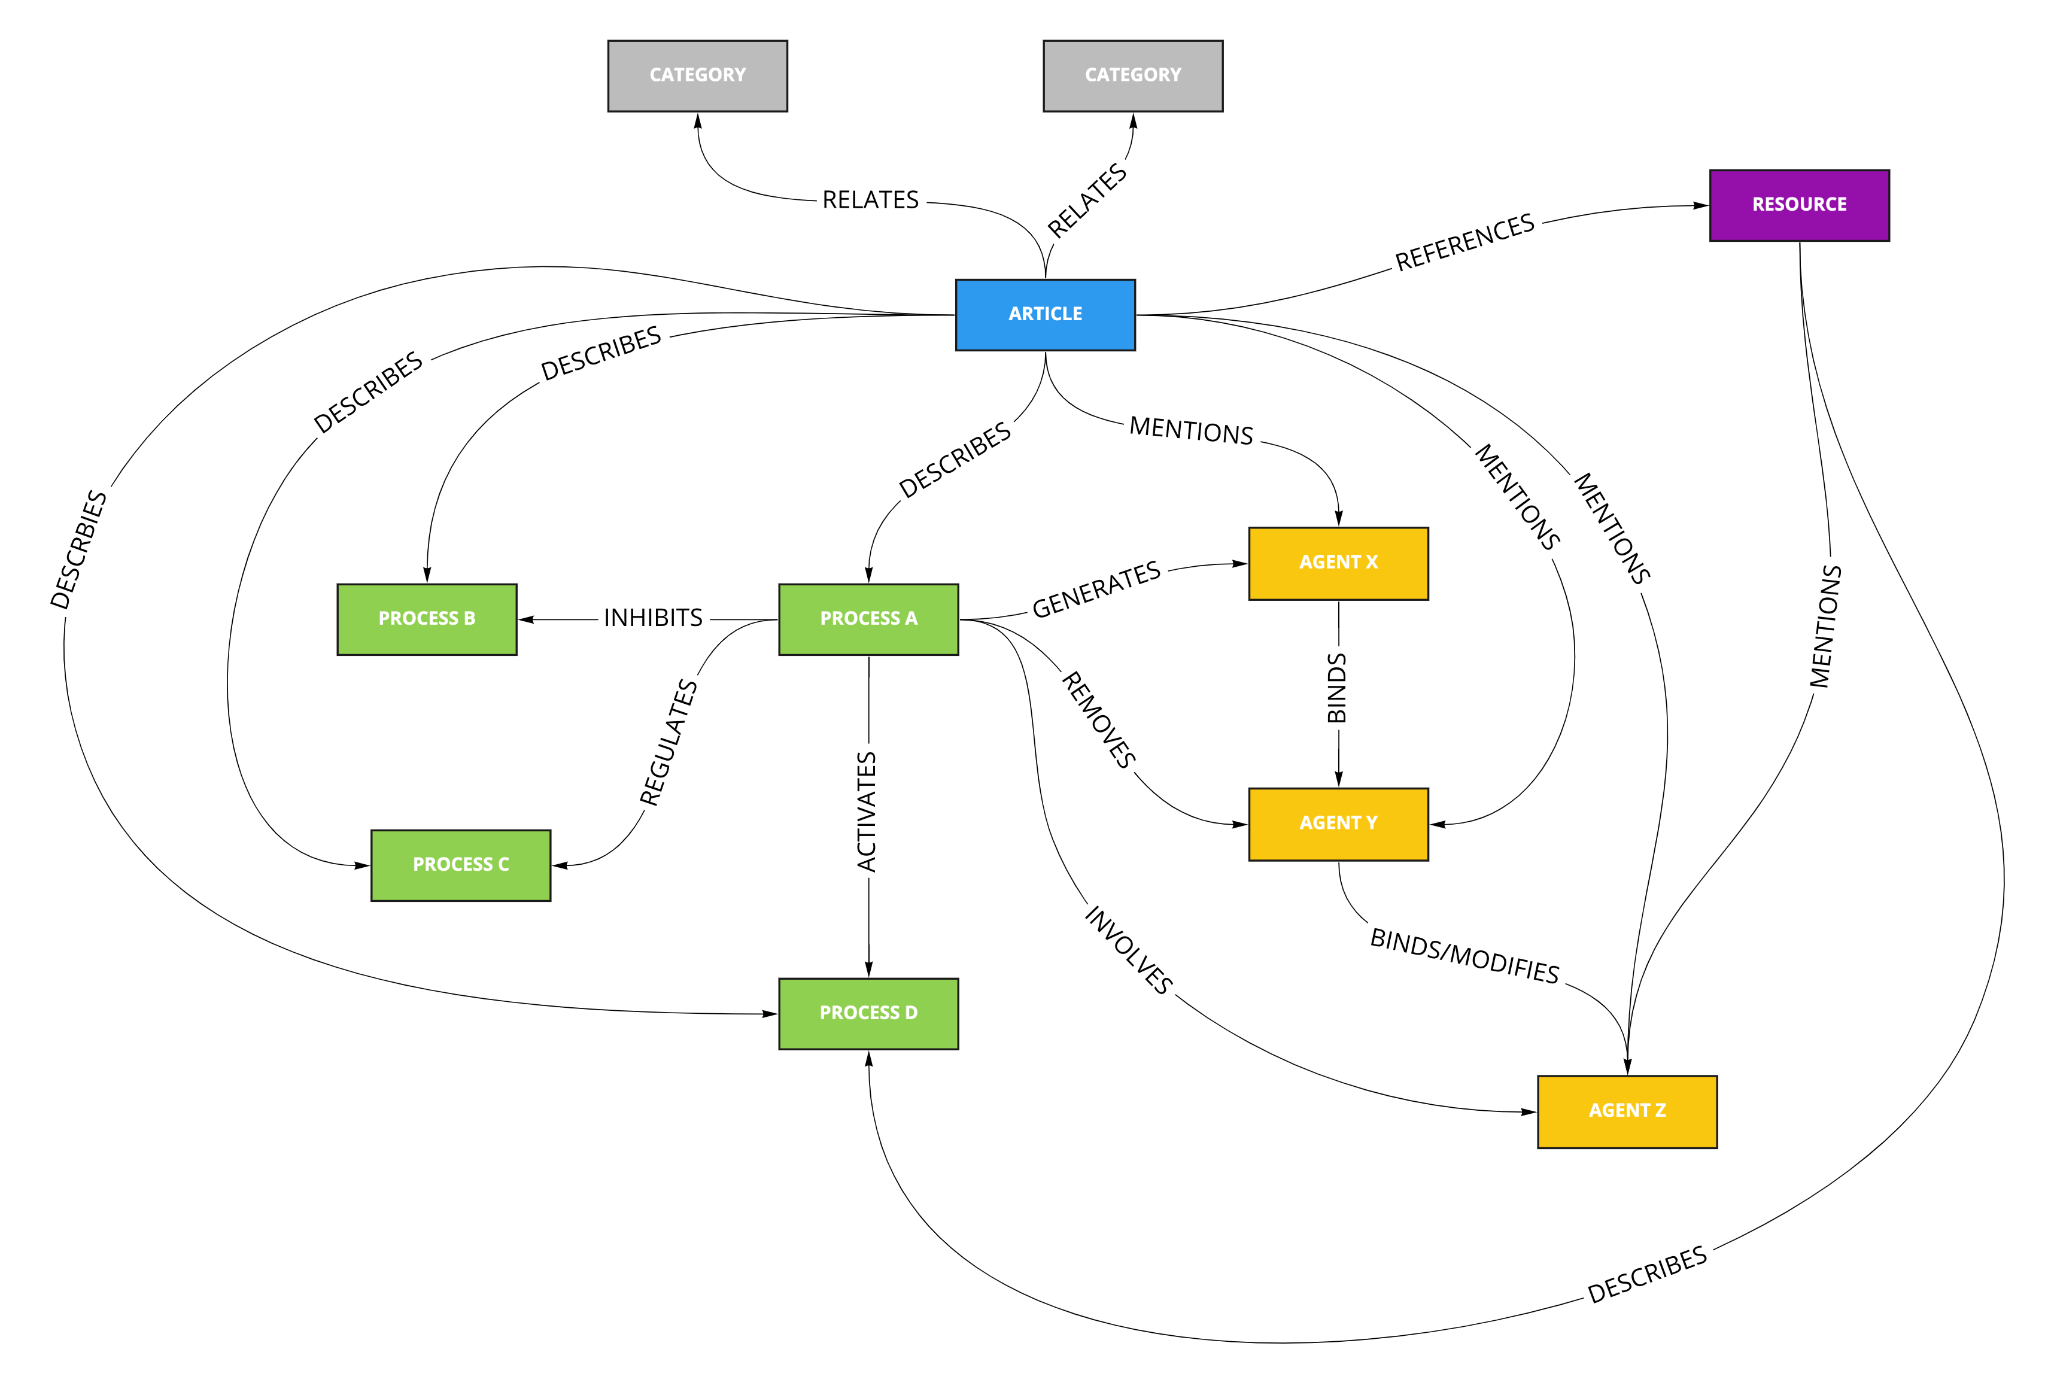
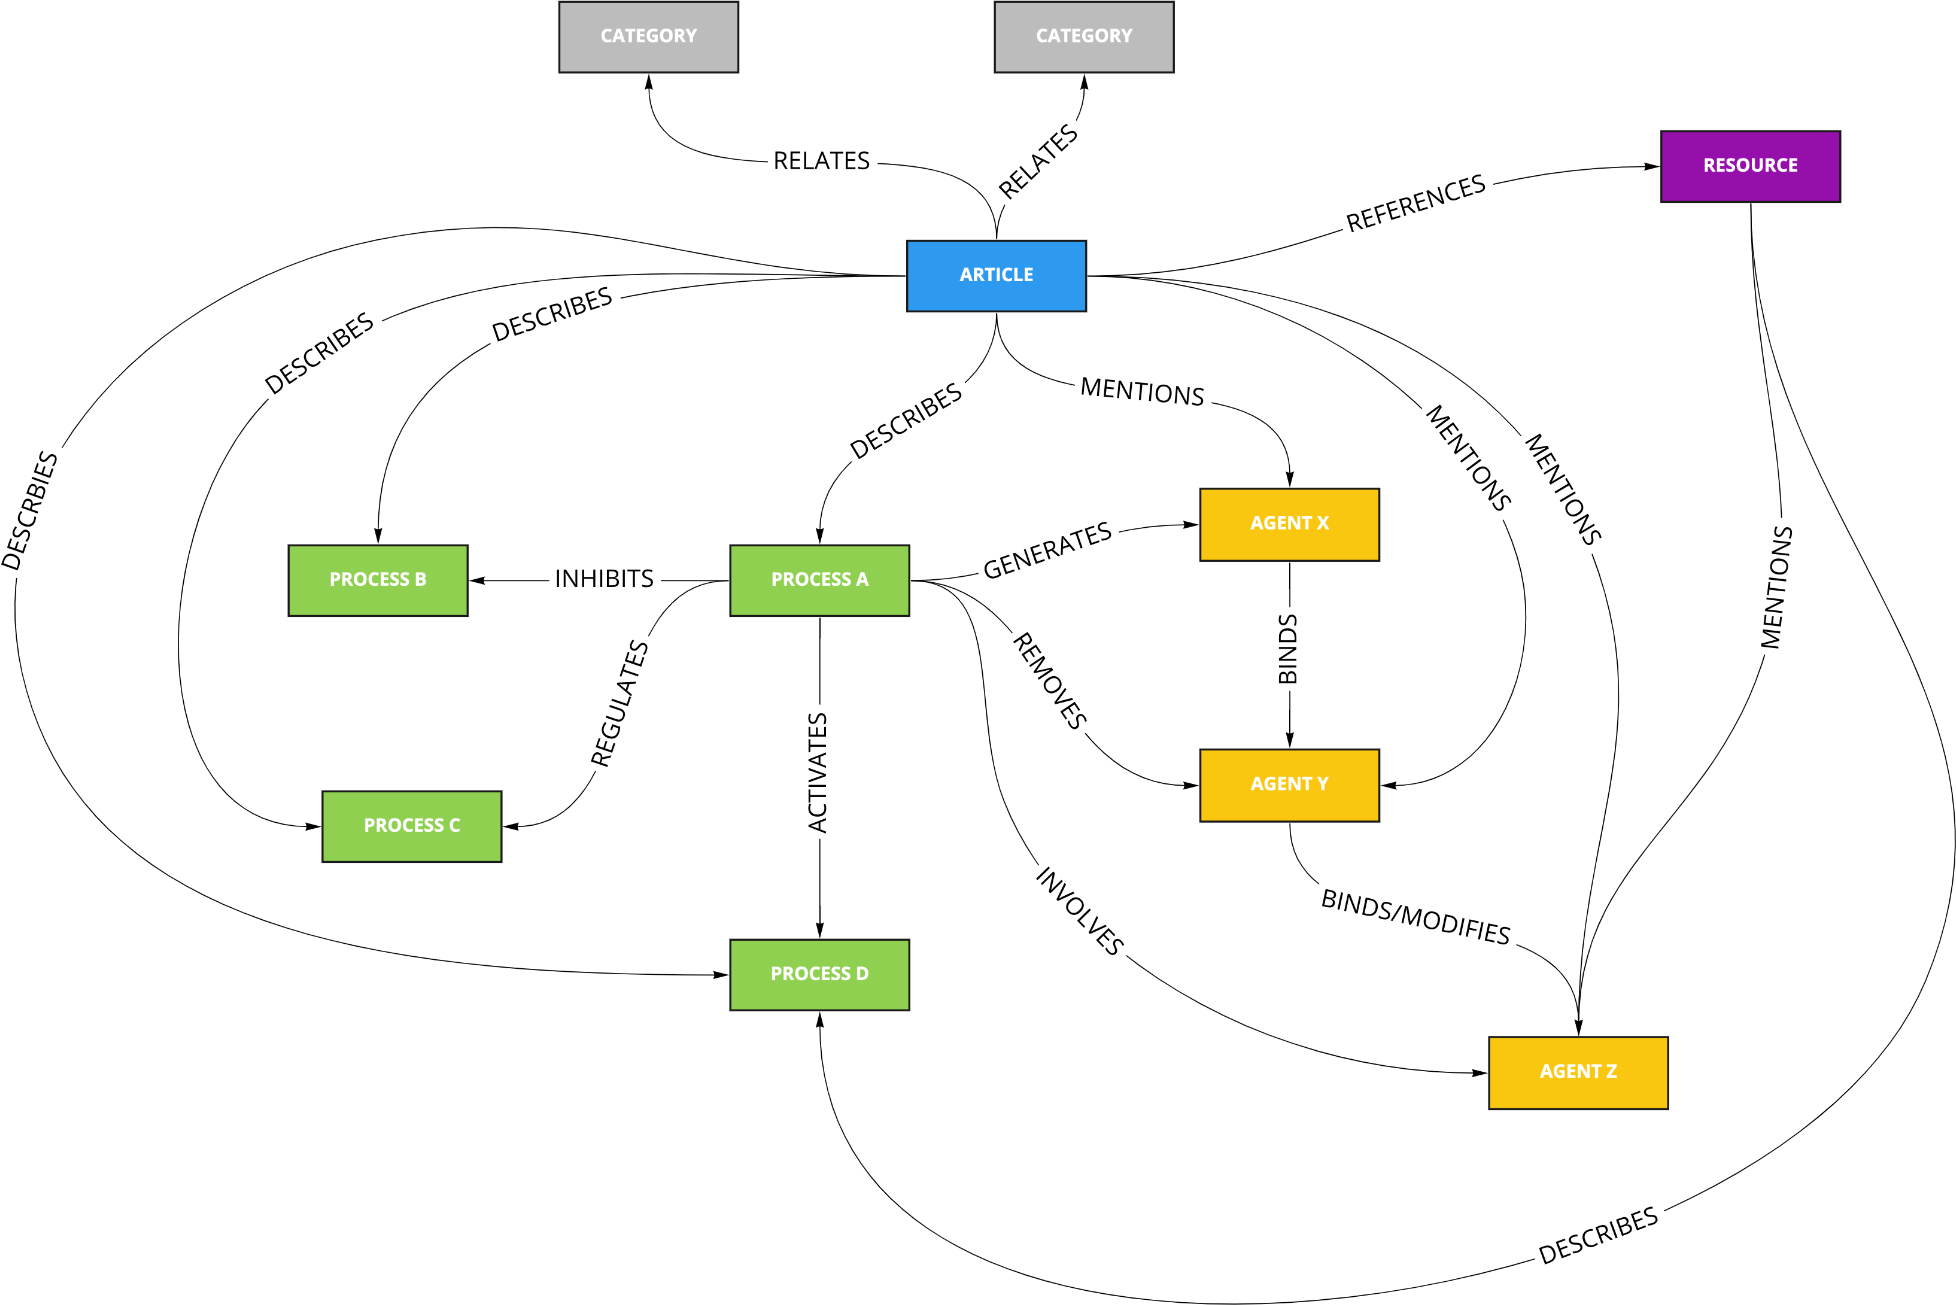
use `convert -trim` to remove all whitespace

diff --git a/paper/paper.md b/paper/paper.md
@@ -51,7 +51,7 @@ that they describe. Examples of relationships for each of the five
 basic entities for a single article are shown in
 \autoref{fig:scribl-schema}.
 
-![The scribl schema comprises a hierarchy of five basic entities: `article`, `category`, `resource`, `process`, and `agent`. Here we depict an example network of entities and possible relationships for a single `article`.\label{fig:scribl-schema}](scribl-schema.png){ width=85% }
+![The scribl schema comprises a hierarchy of five basic entities: `article`, `category`, `resource`, `process`, and `agent`. Here we depict an example network of entities and possible relationships for a single `article`.\label{fig:scribl-schema}](scribl-schema.png){ width=82% }
 
 A curator can add `scribl` statements as tags to each article
 in a literature database, to represent aspects of the causal relationships
@@ -85,7 +85,7 @@ use in graph database platforms. `scribl` also supports the
 incremental updating of the graph database as new Zotero entries come
 in (\autoref{fig:scribl-workflow}).
 
-![Two major workflows for the `scribl` software: creating a new graph database (left) and updating an existing one (right). The workflow contains a step that identifies possible syntactic errors in `scribl` statements so that they can be fixed in the Zotero database before database generation. Note that "Zotero csv export" could be replaced by a query to a remote Zotero library  \label{fig:scribl-workflow}](scribl-workflow.png){ width=105% }
+![Two major workflows for the `scribl` software: creating a new graph database (left) and updating an existing one (right). The workflow contains a step that identifies possible syntactic errors in `scribl` statements so that they can be fixed in the Zotero database before database generation. Note that "Zotero csv export" could be replaced by a query to a remote Zotero library  \label{fig:scribl-workflow}](scribl-workflow.png){ width=102% }
 
 `scribl` functions can be accessed programatically through writing a
 Python script that calls the `scribl` API, or via the included
